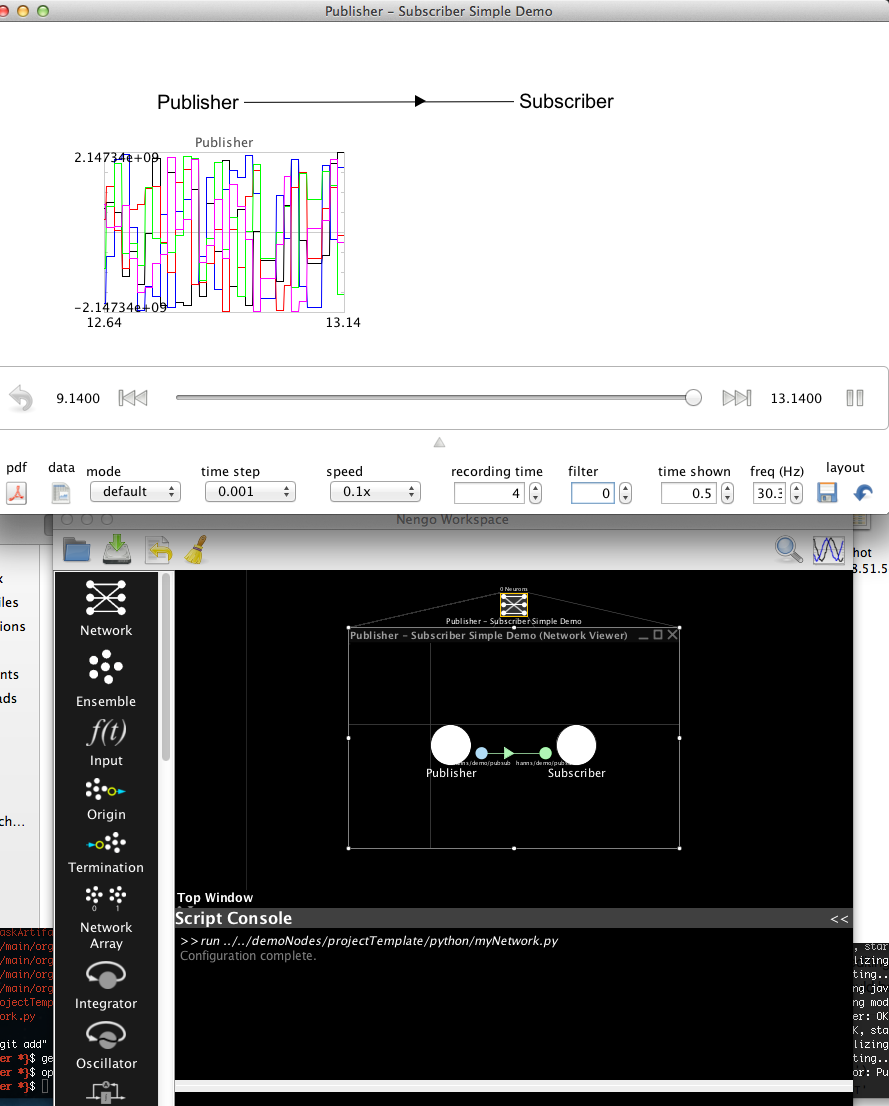
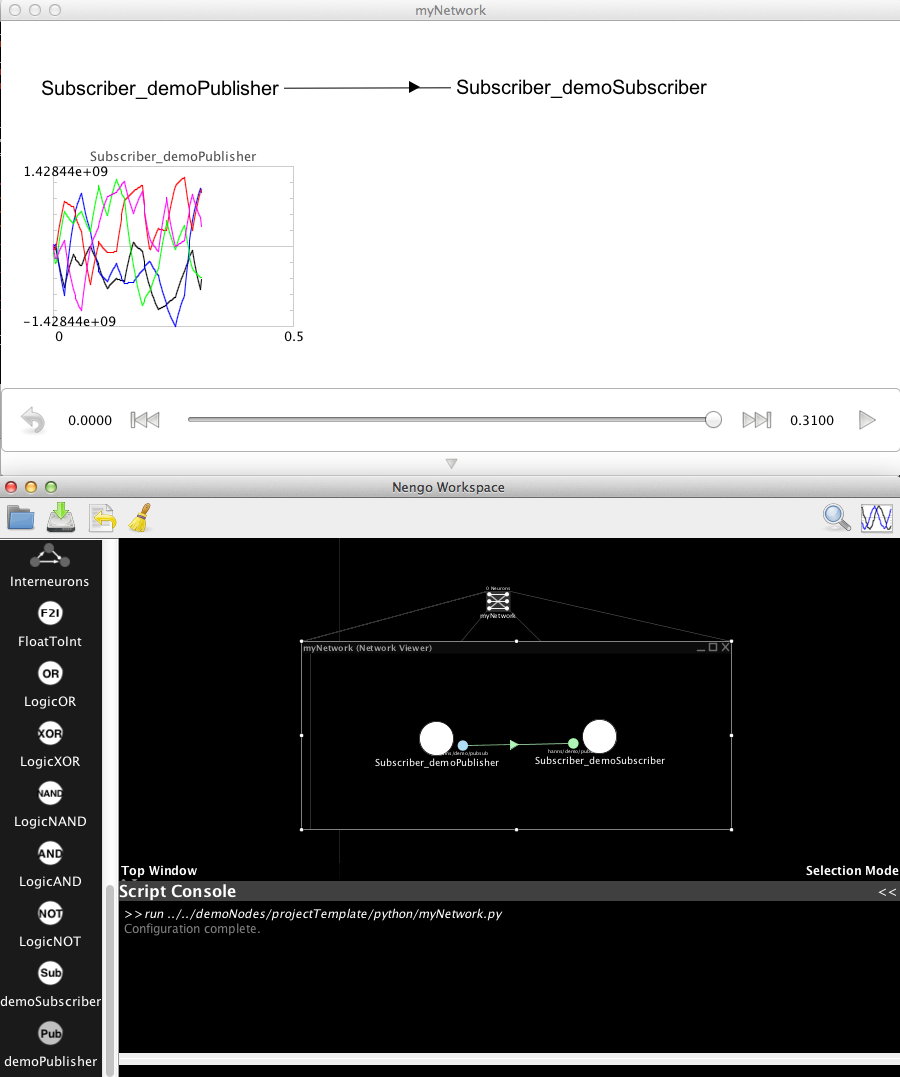
demos cleaned up, now TODO: try to pass the modem as class, not a string

diff --git a/projectTemplate/python/nef/templates/demoSubscriber.py b/projectTemplate/python/nef/templates/demoSubscriber.py
@@ -1,27 +1,23 @@
 # Simple (Drag and drop template for) NeuralModule. 
+#
 # This NeuralModule represents subscriber ROS(java) node (node with inputs) in the Nengo simulator as a SimpleNode. 
 #
 # author Jaroslav Vitku
 #
-# for more information how to make such template, see: http://nengo.ca/docs/html/advanced/dragndrop.html 
-#
+# For more information how to make such template, see: http://nengo.ca/docs/html/advanced/dragndrop.html 
+# For mode information about integration with ROS, see the script demonodes/projectTemplate/python/myNetwork.py
 
 import nef
-import math
-from ca.nengo.math.impl import FourierFunction
-from ca.nengo.model.impl import FunctionInput
-from ca.nengo.model import Units
 #from ctu.nengoros.modules.impl import DefaultNeuralModule as NeuralModule
 from ctu.nengoros.modules.impl import DefaultAsynNeuralModule as NeuralModule
 from ctu.nengoros.comm.nodeFactory import NodeGroup as NodeGroup
-from ctu.nengoros.comm.rosutils import RosUtils as RosUtils
 
 # node utils..
 title='demoSubscriber'
 label='demoSubscriber'
 icon='demoSubscriber.png'
 
-# parameters for initializing the node
+# Define the parameters for initializing the node
 params=[
 ('name','Select name for NeuralModule interfacing the demoSubscriber',str),
 ('independent','Can be group independent? (pushed into namespace?) select true',bool)
@@ -36,22 +32,19 @@ def test_params(net,p):
         pass
 
 
-def make(net,name='NeuralModule which interfaces demoSubscriber with the Nengo simulator', 
-independent=True, useQuick=True):
+def make(net,name='NeuralModule which interfaces demoSubscriber with the Nengo simulator', independent=True, useQuick=True):
 
-    finder = "org.hanns.myPackage.DemoSubscriber";
+    node = "org.hanns.myPackage.DemoSubscriber";
     modemClass = "ctu.nengoros.comm.nodeFactory.modem.impl.DefaultModem";
 
-    # create group with a name
-    g = NodeGroup(name, independent);    		# create independent group called..
-    g.addNC(finder, "subscriber", "java");  	# start java node and name it finder
-    g.addNC(modemClass,"Modem","modem")     	# add modem to the group
+    g = NodeGroup(name, independent);    			# Create group of nodes (represented as SimpleNode in the GUI)
+    g.addNC(node, "subscriber", "java");  			# start java node and name it subscriber in the ROS network
+    g.addNC(modemClass,"Modem","modem")     		# add modem to the group
     g.startGroup()
 
     modem = g.getModem()
-    neuron = NeuralModule('Subscriber_'+name, modem) # construct the neural module 
-    neuron.createEncoder("hanns/demo/pubsub", "int",7)   # termination = input of neuron (nxint)
-    #neuron.createDecoder("hanns/demo/pubsub", "int",1)  # origin = output of neural module 
+    neuron = NeuralModule('Subscriber_'+name, modem) 	# Construct the neural module (small ROS network: node+modem )
+    neuron.createEncoder("hanns/demo/pubsub", "int", 7) # Define IO: termination = input of neuron (n*int)
 
-    many=net.add(neuron)                    # add it into the network
+    many=net.add(neuron)                    		# add it into Nengo simulator
 

diff --git a/projectTemplate/python/nef/templates/demoPublisher.py b/projectTemplate/python/nef/templates/demoPublisher.py
@@ -1,18 +1,15 @@
 # Simple (Drag and drop template for) NeuralModule. 
+#
 # This NeuralModule represents subscriber ROS(java) node (node with inputs) in the Nengo simulator as a SimpleNode. 
 #
 # author Jaroslav Vitku
 #
-# for more information how to make such template, see: http://nengo.ca/docs/html/advanced/dragndrop.html 
-#
+# For more information how to make such template, see: http://nengo.ca/docs/html/advanced/dragndrop.html 
+# For mode information about integration with ROS, see the script demonodes/projectTemplate/python/myNetwork.py 
 
 import nef
-import math
-from ca.nengo.math.impl import FourierFunction
-from ca.nengo.model.impl import FunctionInput
-from ca.nengo.model import Units
-#from nengoros.neurons.impl.test import SecondOne as NeuralModule
-from ctu.nengoros.modules.impl import DefaultNeuralModule as NeuralModule
+from ctu.nengoros.modules.impl import DefaultAsynNeuralModule as NeuralModule 
+#	from ctu.nengoros.modules.impl import DefaultNeuralModule as NeuralModule
 from ctu.nengoros.comm.nodeFactory import NodeGroup as NodeGroup
 from ctu.nengoros.comm.rosutils import RosUtils as RosUtils
 
@@ -36,22 +33,20 @@ def test_params(net,p):
         pass
 
 
-def make(net,name='NeuralModule which interfaces demoPublisher with the Nengo simulator', 
-independent=True, useQuick=True):
+def make(net,name='NeuralModule which interfaces demoPublisher with the Nengo simulator', independent=True, useQuick=True):
 
     finder = "org.hanns.myPackage.DemoPublisher";
     modemClass = "ctu.nengoros.comm.nodeFactory.modem.impl.DefaultModem";
 
     # create group with a name
-    g = NodeGroup(name, independent);    		# create independent group called..
-    g.addNC(finder, "publisher", "java");  	# start java node and name it finder
-    g.addNC(modemClass,"Modem","modem")     	# add modem to the group
+    g = NodeGroup(name, independent);    				# Create group of nodes (represented as SimpleNode in the GUI)
+    g.addNC(finder, "publisher", "java");  				# start java node and name it subscriber in the ROS network
+    g.addNC(modemClass,"Modem","modem")     			# add modem to the group
     g.startGroup()
 
     modem = g.getModem()
-    neuron = NeuralModule('Subscriber_'+name, modem) # construct the neural module 
-    #neuron.createEncoder("hanns/demo/pubsub", "int",7)   # termination = input of neuron (nxint)
-    neuron.createDecoder("hanns/demo/pubsub", "int",7)  # origin = output of neural module 
+    neuron = NeuralModule('Subscriber_'+name, modem) 	# Construct the neural module (small ROS network: node+modem )
+    neuron.createDecoder("hanns/demo/pubsub", "int",7)  # Define IO: termination = input of neuron (n*int)
 
-    many=net.add(neuron)                    # add it into the network
+    many=net.add(neuron)                    			# add it into Nengo simulator
 

diff --git a/projectTemplate/python/myNetwork.py b/projectTemplate/python/myNetwork.py
@@ -1,10 +1,10 @@
 # Create network with two NeuralModules. 
+#
 # First is demoPublisher (sends 7 integers) and the second one is demoSubscriber (receives 7 integers and does nothing).
 #
 # by Jaroslav Vitku [vitkujar@fel.cvut.cz]
 
 import nef
-#from ca.nengo.model import Units
 from ctu.nengoros.comm.nodeFactory import NodeGroup as NodeGroup
 from ctu.nengoros.comm.rosutils import RosUtils as RosUtils
 # Note that modules without outputs (Nengo-decoder) cannot use synchronous mode (DefaultNeuralModule).
@@ -15,7 +15,7 @@ from ctu.nengoros.modules.impl import DefaultNeuralModule as SyncNeuralModule
 
 ################# Create Network and add it to nengo (this must be here first) 
 net=nef.Network('Publisher - Subscriber Simple Demo')
-# delete old (toplevel) network and replace it with the newly CREATED one
+# Delete the old (toplevel) network and replace it with the newly CREATED one
 net.add_to_nengo()  
 
 ################# setup the ROS utils (optional) 
@@ -55,7 +55,7 @@ module2.createEncoder("hanns/demo/pubsub", "int",7)
 many=net.add(module2)                    		
 
 ################# Wire it together
-net.connect(module.getOrigin('hanns/demo/pubsub'),module2.getTermination('hanns/demo/pubsub'))
+net.connect(module.getOrigin('hanns/demo/pubsub'), module2.getTermination('hanns/demo/pubsub'))
 
 print 'Configuration complete.'
 
